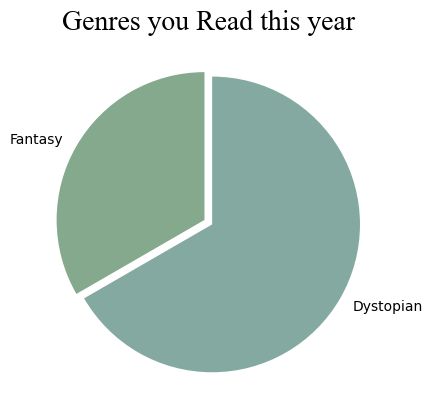
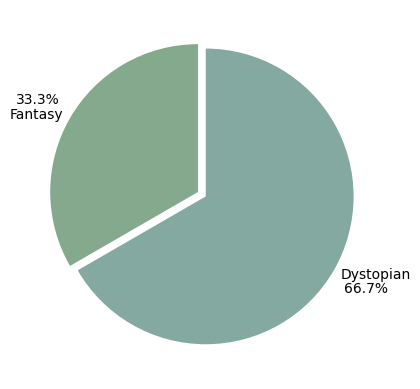
Added a new stats and changed some formatting

diff --git a/GoodEnoughReads/statistics/templates/statistics/statistics.html b/GoodEnoughReads/statistics/templates/statistics/statistics.html
@@ -13,18 +13,21 @@
       My Stats
     </h1>
 
+    <div class = "container">
+      <p style = "text-align:center; color: #84A98C; font-size: 40px; margin-bottom: 3px; font-family: Andalé Mono, monospace"> <Strong> Congratulations! </Strong> </p>
+    </div>
+
     <div class="container">
-      <div class ="row", style="background-color: #EDD0B1; padding-top: 5px; border-radius: 10px; margin-top: 50px;">
+      <div class ="row", style="background-color: #EDD0B1; padding-top: 5px; border-radius: 10px; margin-top: 5px;">
         <div class ="col" style = "color: #004643; font-size: 30px; margin-bottom: 3px; font-family: Cambria, Cochin, Georgia, Times, 'Times New Roman', serif">
           <p style = "text-align:center; margin-bottom: 0px;"> <Strong>Number of Pages you Read this Week</Strong></p>
-          <p style = "text-align:center; color: #FFFFFF; font-size: 20px; margin-bottom: 3px; font-family: Andalé Mono, monospace"> <Strong> Congratulations! </Strong> </p>
           <p style = "text-align:center; color: #000000; font-size: 18px; margin-bottom: 3px; font-family: Andalé Mono, monospace"> You read {{pages_this_week}} pages this week! </p>
         </div>
       </div>
     </div>
 
     <div class="container">
-      <div class="row", style="background-color: #EDD0B1; padding-top: 5px; border-radius: 10px; margin-top: 50px;">
+      <div class="row", style="background-color: #EDD0B1; padding-top: 5px; border-radius: 10px; margin-top: 30px;">
         <div class="col" style = "color: #004643; font-size: 30px; margin-bottom: 3px; font-family: Cambria, Cochin, Georgia, Times, 'Times New Roman', serif">
           <p style = "text-align:center; margin-bottom: 0px;"> <Strong>Number of Books you Read this Month</Strong></p>
           <p style = "text-align:center; color: #000000; font-size: 18px; margin-bottom: 3px; font-family: Andalé Mono, monospace"> You read {{books_this_month}} books this month! </p>
@@ -33,7 +36,7 @@
     </div>
 
     <div class="container">
-      <div class="row", style="background-color: #EDD0B1; padding-top: 5px; border-radius: 10px; margin-top: 50px;">
+      <div class="row", style="background-color: #EDD0B1; padding-top: 5px; border-radius: 10px; margin-top: 30px;">
         <div class="col" style = "color: #004643; font-size: 30px; margin-bottom: 3px; font-family: Cambria, Cochin, Georgia, Times, 'Times New Roman', serif">
           <p style = "text-align:center; margin-bottom: 0px;"> <Strong>Books You Read this Year</Strong></p>
           </p>
@@ -45,7 +48,7 @@
     </div>
 
     <div class="container">
-      <div class="row", style="background-color: #EDD0B1; padding-top: 5px; border-radius: 10px; margin-top: 50px;">
+      <div class="row", style="background-color: #EDD0B1; padding-top: 5px; border-radius: 10px; margin-top: 30px;">
         <div class="col" style = "color: #004643; font-size: 30px; margin-bottom: 3px; font-family: Cambria, Cochin, Georgia, Times, 'Times New Roman', serif">
           <p style = "text-align:center; margin-bottom: 0px;"> <Strong>Books you Read since the Beginning of Time</Strong></p>
           </p>
@@ -55,11 +58,21 @@
     </div>
 
     <div class="container">
-      <div class="row", style="background-color: #EDD0B1; padding-top: 5px; border-radius: 10px; margin-top: 50px;">
+      <div class="row", style="background-color: #EDD0B1; padding-top: 5px; border-radius: 10px; margin-top: 30px;">
         <div class="col" style = "color: #004643; font-size: 30px; margin-bottom: 3px; font-family: Cambria, Cochin, Georgia, Times, 'Times New Roman', serif">
           <p style = "text-align:center; margin-bottom: 0px;"> <Strong>Genres you read this year</Strong></p>
           </p>
           <img src= "{% static 'gersiteapp/img/stats/PieChartGenresyouReadthisyear.png' %}" alt = "Books you read every month per year" style = "display: block; margin-left: auto; margin-right: auto; width: 50%;">
+        </div>
+      </div>
+    </div>
+
+    <div class="container">
+      <div class="row", style="background-color: #EDD0B1; padding-top: 5px; border-radius: 10px; margin-top: 30px;">
+        <div class="col" style = "color: #004643; font-size: 30px; margin-bottom: 3px; font-family: Cambria, Cochin, Georgia, Times, 'Times New Roman', serif">
+          <p style = "text-align:center; margin-bottom: 0px;"> <Strong>How long were the books you read this year?</Strong></p>
+          </p>
+          <img src= "{% static 'gersiteapp/img/stats/PieChartBookPagesyouReadthisyear.png' %}" alt = "Books you read every month per year" style = "display: block; margin-left: auto; margin-right: auto; width: 50%;">
         </div>
       </div>
     </div>

diff --git a/GoodEnoughReads/Statistics/StatisticsModel.py b/GoodEnoughReads/Statistics/StatisticsModel.py
@@ -99,8 +99,30 @@ class StatisticsModel:
         
         return self.num_books_read_per_year[this_year], self.sorted_num_books_read_per_year
 
-    def CalculateBookPagesPerYear():
-        pass
+    def CalculateBookPagesPerYear(self):
+        self.cursor.execute("SELECT C.NewestReadingEndDate, B.Pages FROM BookInUserCollection AS C, Book AS B WHERE C.email = '" + self.email + "' AND B.ISBN = C.ISBN;")
+        YearlyBooksPagesRead = self.cursor.fetchall()
+
+        this_year = datetime.date.today().year
+        self.book_pages_year = {"< 100": 0, "100-200": 0, "200-400": 0, "400-600": 0, "> 600": 0}
+
+        i = 0
+        while i < len(YearlyBooksPagesRead):
+            if YearlyBooksPagesRead[i][0].year == this_year:
+                if YearlyBooksPagesRead[i][1] < 100:
+                    self.book_pages_year["< 100"] += 1
+                elif YearlyBooksPagesRead[i][1] < 200:
+                    self.book_pages_year["100-200"] += 1
+                elif YearlyBooksPagesRead[i][1] < 400:   
+                    self.book_pages_year["200-400"] += 1 
+                elif YearlyBooksPagesRead[i][1] < 600:   
+                    self.book_pages_year["400-600"] += 1
+                else:   
+                    self.book_pages_year["> 600"] += 1  
+            
+            i += 1
+
+        return self.book_pages_year
 
     def CalculateGenresPerYear(self): 
         self.cursor.execute("SELECT C.NewestReadingEndDate, B.Genre FROM BookInUserCollection AS C, Book AS B WHERE C.email = '" + self.email + "' AND B.ISBN = C.ISBN;")
@@ -127,8 +149,8 @@ class StatisticsModel:
         ax.spines['top'].set_visible(False)
         ax.spines['right'].set_visible(False)
 
-        plt.bar(x, y, color = "#004643")
-        plt.title(title, fontproperties = self.font, fontsize = 20)
+        plt.bar(x, y, color = "#84A98C")
+        # plt.title(title, fontproperties = self.font, fontsize = 20)
         plt.xlabel(x_label, fontproperties = self.font, fontsize = 15)
         plt.xticks(rotation = 45, fontproperties = self.font, fontsize = 10)
         plt.ylabel(y_label, fontproperties = self.font, fontsize = 15)
@@ -139,8 +161,8 @@ class StatisticsModel:
     def CreateLineGraph(self, x, y, x_label, y_label, title):
         fig, ax = plt.subplots()
 
-        plt.plot(x, y, color = "#004643", linewidth = 5.0, marker = 'o', markersize = 10.0, markerfacecolor = "#84A98C")
-        plt.title(title, fontproperties = self.font, fontsize = 20)
+        plt.plot(x, y, color = "#84A98C", linewidth = 5.0, marker = 'o', markersize = 10.0, markerfacecolor = "#004643")
+        # plt.title(title, fontproperties = self.font, fontsize = 20)
         plt.xlabel(x_label, fontproperties = self.font, fontsize = 15)
         plt.xticks(rotation = 45, fontproperties = self.font, fontsize = 10)
         plt.ylabel(y_label, fontproperties = self.font, fontsize = 15)
@@ -168,21 +190,21 @@ class StatisticsModel:
                 PieExplode.append(0.03)
                 i += 1
 
-        plt.pie(y, labels = x, startangle = 90, colors = PieColors, pctdistance = 0.85, explode = PieExplode)
-        plt.title(title, fontproperties = self.font, fontsize = 20)
+        plt.pie(y, labels = x, startangle = 90, colors = PieColors, labeldistance = 1.05, explode = PieExplode, autopct='%1.1f%%', pctdistance=1.25)
+        # plt.title(title, fontproperties = self.font, fontsize = 20)
         
         fig.savefig('gersiteapp/static/gersiteapp/img/stats/PieChart' + title.replace(' ','') + '.png', bbox_inches='tight', transparent=True)
 
-if __name__ == '__main__':
-    books_per_month = {"January":5, "February": 7, "March": 10, "April": 10, "May": 0,
-        "June": 1, "July":4, "August": 8, "September": 1, "October": 0,
-        "November": 9, "December": 10}
-    x = list(books_per_month.keys())
-    y = list(books_per_month.values())
-    x_label = "Months"
-    y_label = "Number of Books read"
-    title = "Number of Books read each Month"
-    s = StatisticsModel("a@gmail.com")
-    s.CreateBarGraph(x, y, x_label, y_label, title)
-    s.CreatePieChart(x, y, title)
-    # s.NumPagesThisWeek()
+# if __name__ == '__main__':
+#     books_per_month = {"January":5, "February": 7, "March": 10, "April": 10, "May": 0,
+#         "June": 1, "July":4, "August": 8, "September": 1, "October": 0,
+#         "November": 9, "December": 10}
+#     x = list(books_per_month.keys())
+#     y = list(books_per_month.values())
+#     x_label = "Months"
+#     y_label = "Number of Books read"
+#     title = "Number of Books read each Month"
+#     s = StatisticsModel("a@gmail.com")
+#     s.CreateBarGraph(x, y, x_label, y_label, title)
+#     s.CreatePieChart(x, y, title)
+#     # s.NumPagesThisWeek()

diff --git a/GoodEnoughReads/statistics/viewsStatistics.py b/GoodEnoughReads/statistics/viewsStatistics.py
@@ -15,6 +15,9 @@ def statistics(request):
     genres_this_year = stats.CalculateGenresPerYear()
     stats.CreatePieChart(list(genres_this_year.keys()), list(genres_this_year.values()), "Genres you Read this year")
 
+    book_pages_this_year = stats.CalculateBookPagesPerYear()
+    stats.CreatePieChart(list(book_pages_this_year.keys()), list(book_pages_this_year.values()), "Book Pages you Read this year")
+
     return render(request, 'Statistics/statistics.html', {'pages_this_week': pages_this_week, 
                                                           'books_this_month': books_this_month,
                                                           'books_this_year': books_this_year})
